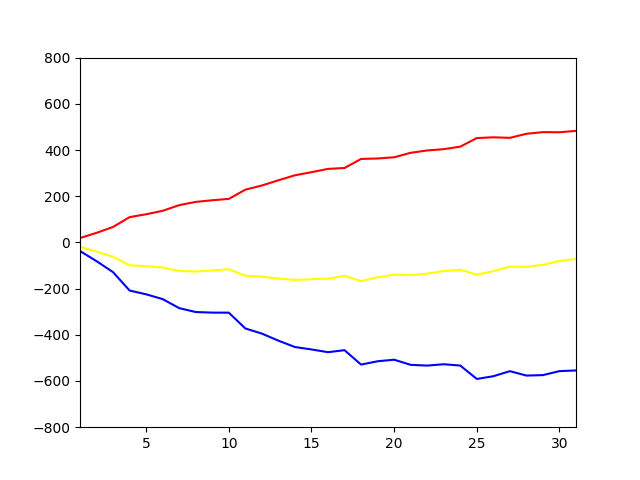
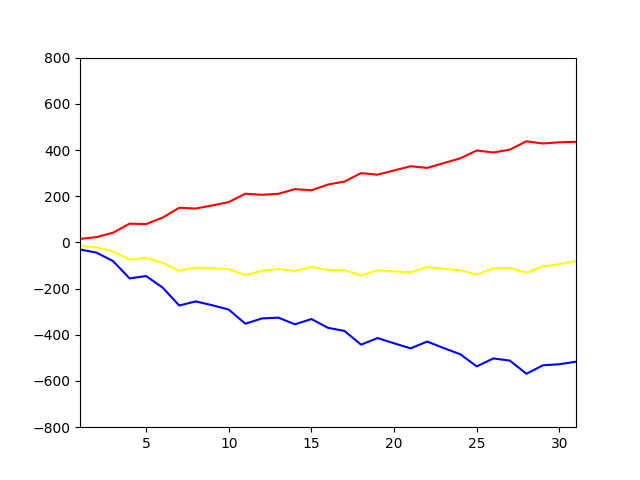
修正

diff --git a/sim4/sim4.py b/sim4/sim4.py
@@ -4,7 +4,7 @@ import random
 from turtle import color
 import pandas as pd
 import matplotlib.pyplot as plt
-road=1.1
+road=[]
 wether=1
 day_length=31
 au=[]
@@ -21,8 +21,8 @@ for i in range(day_length):
   x.append(i+1)
   if (i+1)==a:
     a+=7
-    print(a)
     sub=random.randrange(1,3)
+    road.append(1)
     if sub==1:
       menu.append('12km_pacerunnning')
       au.append(3.5)
@@ -31,8 +31,10 @@ for i in range(day_length):
       menu.append('10km_pacerunnning')
       au.append(4)
       distance.append(10)
-  elif (i+1)%7==0:
+  elif (i+1)==b:
+    b+=7    
     sub=random.randrange(1,3)
+    road.append(1)
     if sub==1:
       menu.append('1000m_interval×5')
       au.append(5)
@@ -41,7 +43,13 @@ for i in range(day_length):
       menu.append('2000m_interval×5')
       au.append(4.5)
       distance.append(10)
+  elif (i==(a-7) or i==(b-7))and i!=0:
+    menu.append('OFF')
+    au.append(0)
+    distance.append(0)
+    road.append(0)
   else:
+    road.append(1.1)
     menu.append('jog')  
     distance.append(random.randrange(6,20))
     sub=random.randrange(1,3)
@@ -51,7 +59,7 @@ for i in range(day_length):
       au.append(1.5)
 
 for i in range(day_length):
-  trimp.append(round(au[i]*distance[i]*road*wether,3))
+  trimp.append(round(au[i]*distance[i]*road[i]*wether,3))
 
 fig.append(trimp[0]*2)
 fit.append(trimp[0])

diff --git a/sim5/sim5.py b/sim5/sim5.py
@@ -4,7 +4,7 @@ import random
 from turtle import color
 import pandas as pd
 import matplotlib.pyplot as plt
-road=1.1
+road=[]
 wether=1
 day_length=31
 au=[]
@@ -22,6 +22,7 @@ for i in range(day_length):
   if (i+1)==a:
     a+=7
     sub=random.randrange(1,3)
+    road.append(1)
     if sub==1:
       menu.append('12km_pacerunnning')
       au.append(3.5)
@@ -33,6 +34,7 @@ for i in range(day_length):
   elif (i+1)==b:
     b+=7    
     sub=random.randrange(1,3)
+    road.append(1)
     if sub==1:
       menu.append('1000m_interval×5')
       au.append(5)
@@ -41,11 +43,13 @@ for i in range(day_length):
       menu.append('2000m_interval×5')
       au.append(4.5)
       distance.append(10)
-  elif (i==(a-7) or i==(b-7))and i!=0:
+  elif (i==(a-7) or i==(b-7) or i==(b-6))and i!=0:
     menu.append('OFF')
     au.append(0)
     distance.append(0)
+    road.append(0)
   else:
+    road.append(1.1)
     menu.append('jog')  
     distance.append(random.randrange(6,20))
     sub=random.randrange(1,3)
@@ -55,7 +59,7 @@ for i in range(day_length):
       au.append(1.5)
 
 for i in range(day_length):
-  trimp.append(round(au[i]*distance[i]*road*wether,3))
+  trimp.append(round(au[i]*distance[i]*road[i]*wether,3))
 
 fig.append(trimp[0]*2)
 fit.append(trimp[0])
